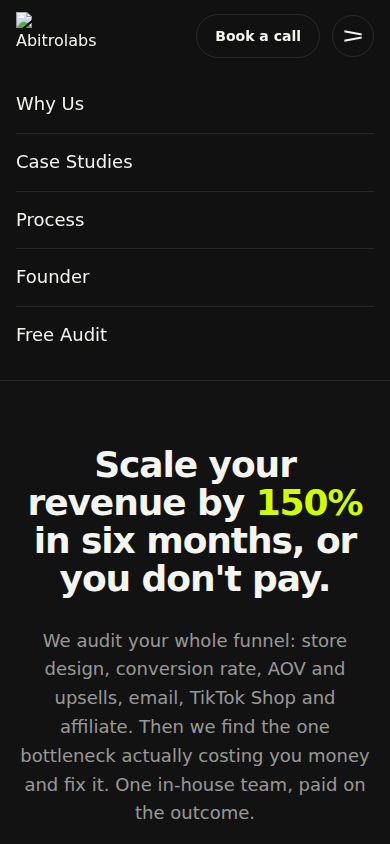
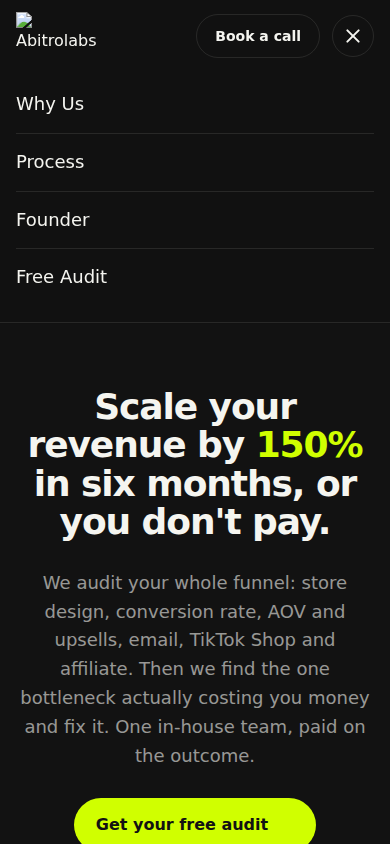
Replace Cal.com booking embed with Calendly
Claude-Session: https://claude.ai/code/session_01PTpcHBazDYFQqzESxD9qqU

diff --git a/privacy.html b/privacy.html
@@ -33,7 +33,7 @@
 
     <h2>What we collect</h2>
     <ul>
-      <li><strong>When you book a call:</strong> your name, email address, the time you choose and anything you write in the booking form. Bookings are handled by our scheduling provider, Cal.com.</li>
+      <li><strong>When you book a call:</strong> your name, email address, the time you choose and anything you write in the booking form. Bookings are handled by our scheduling provider, Calendly.</li>
       <li><strong>When you message us on Instagram:</strong> your username and whatever you send us. Instagram is run by Meta, under Meta's own privacy policy.</li>
       <li><strong>When you visit the website:</strong> our hosting provider automatically logs basic technical data such as your IP address, browser type and the pages requested, to keep the site running and secure.</li>
     </ul>
@@ -50,14 +50,14 @@
     <p>We use a small number of service providers that process data on our behalf:</p>
     <ul>
       <li><strong>Vercel</strong> – website hosting</li>
-      <li><strong>Cal.com</strong> – call booking and calendar invites</li>
+      <li><strong>Calendly</strong> – call booking and calendar invites</li>
       <li><strong>Google Fonts</strong> – loads the fonts on this page, which means your browser sends your IP address to Google</li>
       <li><strong>Framer</strong> – serves some of the images on this page</li>
     </ul>
     <p>Some of these providers are based in the United States. Where data leaves the EU/EEA, the transfer is covered by the EU–US Data Privacy Framework or the European Commission's standard contractual clauses.</p>
 
     <h2>Cookies</h2>
-    <p>This website does not set its own cookies. The embedded Cal.com booking calendar may set cookies that are needed for the booking to work.</p>
+    <p>This website does not set its own cookies. The embedded Calendly booking calendar may set cookies that are needed for the booking to work.</p>
 
     <h2>How long we keep it</h2>
     <p>If we don't end up working together, we delete booking details and messages within 12 months of our last contact. If we do work together, we keep what we need for the engagement and for as long as accounting law requires.</p>

diff --git a/index.html b/index.html
@@ -228,7 +228,8 @@
           </ul>
         </div>
         <div class="calendar">
-          <div id="cal-inline" class="cal-inline"></div>
+          <div class="calendly-inline-widget" data-resize="true"
+            data-url="https://calendly.com/havsteenaugust999?hide_gdpr_banner=1&amp;background_color=1a1a1a&amp;text_color=f5f5f0&amp;primary_color=d0ff00"></div>
         </div>
       </div>
     </section>
@@ -295,17 +296,8 @@
     })();
   </script>
 
-  <!-- Cal.com inline embed (auto-resizes to fit the booking widget) -->
-  <script>
-    (function (C, A, L) { let p = function (a, ar) { a.q.push(ar); }; let d = C.document; C.Cal = C.Cal || function () { let cal = C.Cal; let ar = arguments; if (!cal.loaded) { cal.ns = {}; cal.q = cal.q || []; d.head.appendChild(d.createElement("script")).src = A; cal.loaded = true; } if (ar[0] === L) { const api = function () { p(api, arguments); }; const namespace = ar[1]; api.q = api.q || []; if (typeof namespace === "string") { cal.ns[namespace] = cal.ns[namespace] || api; p(cal.ns[namespace], ar); p(cal, ["initNamespace", namespace]); } else p(cal, ar); return; } p(cal, ar); }; })(window, "https://app.cal.com/embed/embed.js", "init");
-    Cal("init", "audit-call", { origin: "https://app.cal.com" });
-    Cal.ns["audit-call"]("inline", {
-      elementOrSelector: "#cal-inline",
-      calLink: "abitrolabs/audit-call-15-min",
-      config: { layout: "month_view", theme: "dark" }
-    });
-    Cal.ns["audit-call"]("ui", { hideEventTypeDetails: false, layout: "month_view" });
-  </script>
-  <noscript><p style="text-align:center"><a href="https://cal.com/abitrolabs/audit-call-15-min">Book a call on Cal.com</a></p></noscript>
+  <!-- Calendly inline embed -->
+  <script src="https://assets.calendly.com/assets/external/widget.js" async></script>
+  <noscript><p style="text-align:center"><a href="https://calendly.com/havsteenaugust999">Book a call on Calendly</a></p></noscript>
 </body>
 </html>

diff --git a/terms.html b/terms.html
@@ -45,7 +45,7 @@
     <p>The text, design, logos and other content on this website belong to Abitrolabs. You may not copy or reuse them for commercial purposes without our written permission.</p>
 
     <h2>Links to other websites</h2>
-    <p>This website links to and embeds third-party services such as Cal.com and Instagram. We are not responsible for their content or how they handle your data.</p>
+    <p>This website links to and embeds third-party services such as Calendly and Instagram. We are not responsible for their content or how they handle your data.</p>
 
     <h2>Liability</h2>
     <p>To the extent permitted by law, Abitrolabs is not liable for any loss arising from your use of this website or reliance on its content. Nothing in these terms limits liability that cannot be limited by law.</p>

diff --git a/styles.css b/styles.css
@@ -330,7 +330,7 @@ p { margin: 0; }
   overflow: hidden;
   background: var(--surface);
 }
-.cal-inline { width: 100%; min-height: 640px; overflow: auto; }
+.calendly-inline-widget { width: 100%; min-width: 320px; height: 700px; }
 
 /* Footer */
 .footer { border-top: 1px solid var(--border); padding: 72px 0 32px; }
@@ -378,6 +378,7 @@ p { margin: 0; }
   .container { padding: 0 16px; }
   .nav { padding: 12px 16px; }
   .mobile-menu { padding: 4px 16px 16px; }
+  .calendly-inline-widget { height: 1000px; }
   .section { scroll-margin-top: 72px; }
   .nav-logo img { height: 48px; }
   .footer-logo img { height: 80px; }
